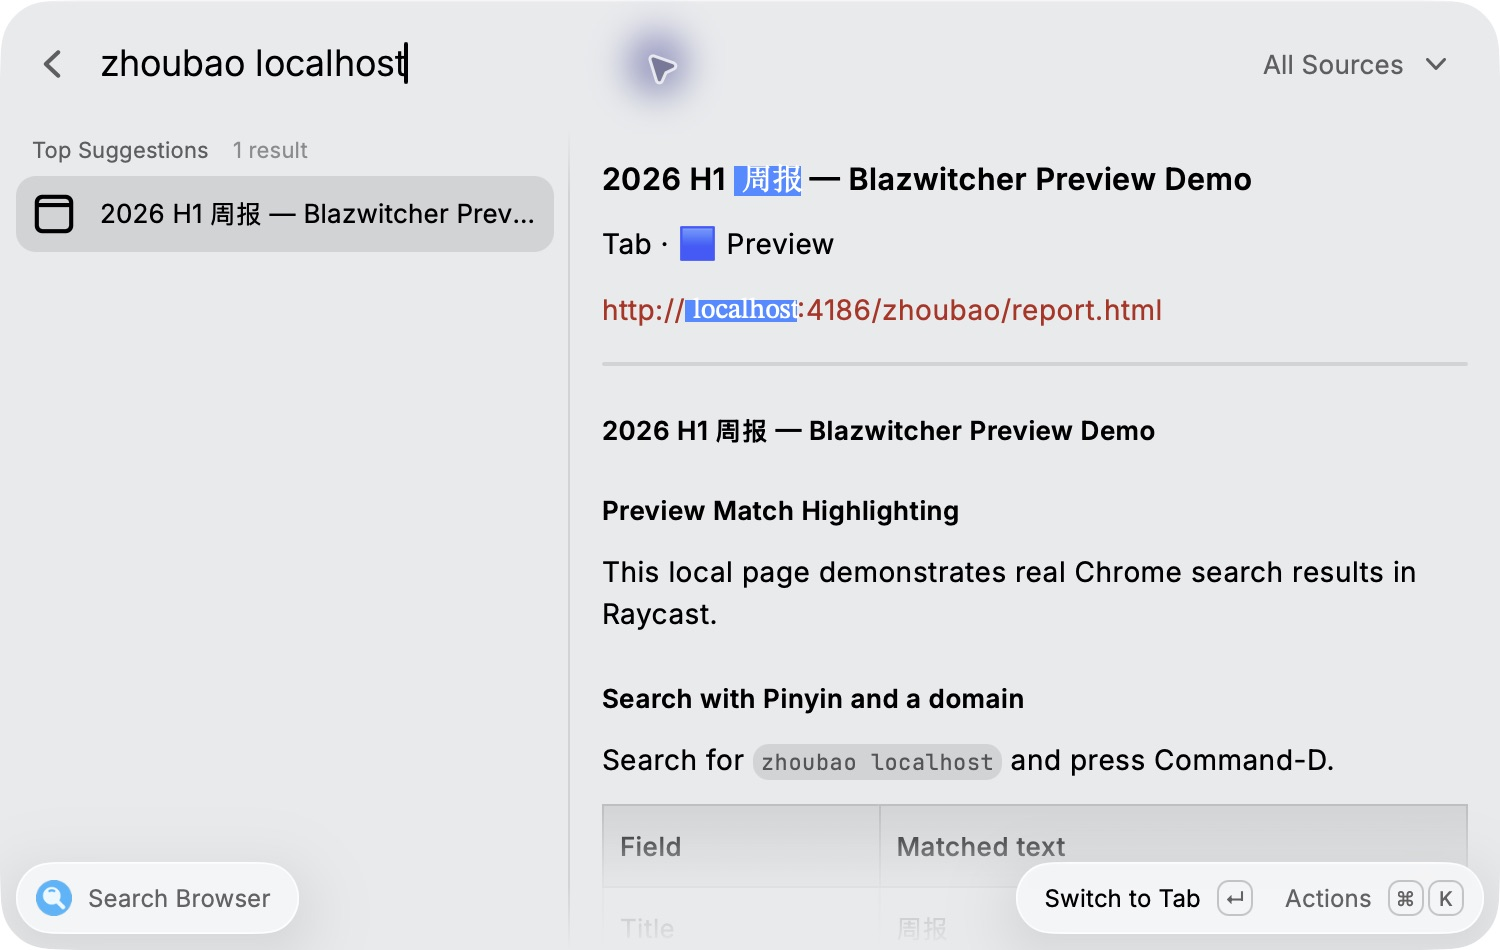
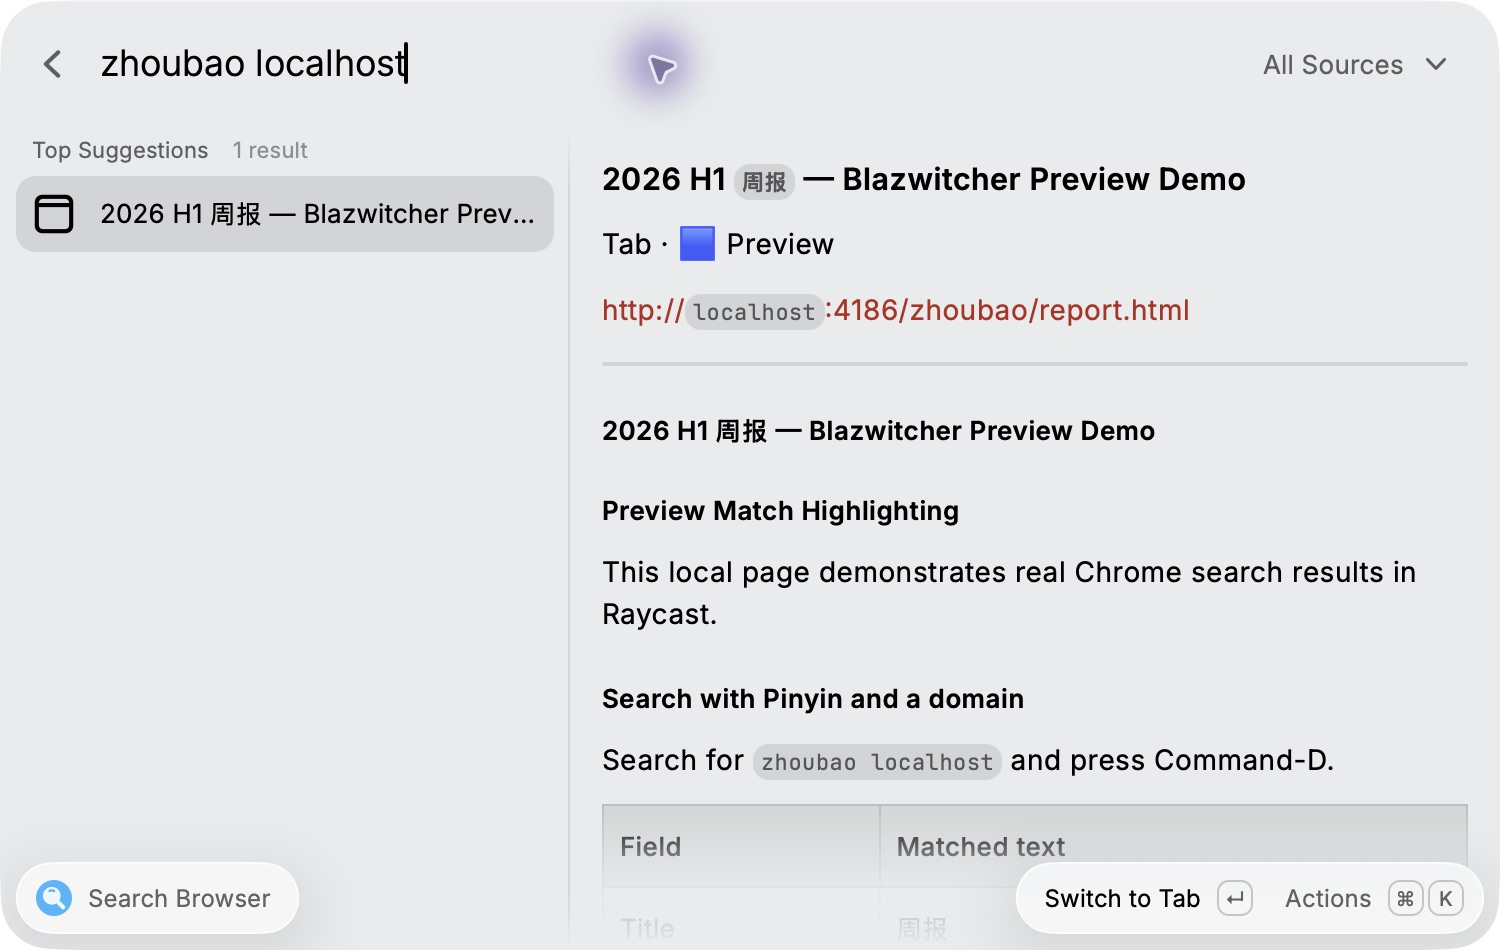
fix(preview): 🐛 use native padded match highlights

Changed region(s): [[0.4907, 0.1526, 0.828, 0.2137], [0.46, 0.3053, 0.7973, 0.3663]]

diff --git a/src/components/preview-markdown.ts b/src/components/preview-markdown.ts
@@ -47,16 +47,16 @@ function escapeMarkdown(value: string) {
   return value.replace(/&/g, "&amp;").replace(/([\\`*_{}[\]<>#+!|$])/g, "\\$1");
 }
 
-function escapeMathText(value: string) {
-  const escapes: Record<string, string> = {
-    "\\": "\\textbackslash{}",
-    "^": "\\textasciicircum{}",
-    "~": "\\textasciitilde{}",
-  };
-  return value.replace(
-    /[\\^~$%_#&{}]/g,
-    (character) => escapes[character] ?? `\\${character}`,
+function highlightedText(value: string) {
+  const text = value.replace(/\r\n|\r|\n/g, " ");
+  const longestFence = Math.max(
+    0,
+    ...Array.from(text.matchAll(/`+/g), (match) => match[0].length),
   );
+  const fence = "`".repeat(longestFence + 1);
+  const padding =
+    /^`|`$/.test(text) || (/^ .* $/.test(text) && /[^ ]/.test(text)) ? " " : "";
+  return `${fence}${padding}${text}${padding}${fence}`;
 }
 
 function matchedMarkdown(value: string, ranges: Range[], offset = 0) {
@@ -69,10 +69,8 @@ function matchedMarkdown(value: string, ranges: Range[], offset = 0) {
   const parts: string[] = [];
   for (const [start, end] of normalized) {
     parts.push(escapeMarkdown(text.slice(cursor, start)));
-    // 原生预览支持 LaTeX 颜色；仅给搜索引擎返回的原文区间着色。
-    parts.push(
-      `\\(\\colorbox{#268DFF}{\\raisebox{-0.2em}{\\textcolor{white}{\\textsf{${escapeMathText(text.slice(start, end + 1))}}}\\hspace{0.2em}}}\\)`,
-    );
+    // 原生行内 code 样式按真实文字尺寸提供圆角底色和四周留白。
+    parts.push(highlightedText(text.slice(start, end + 1)));
     cursor = end + 1;
   }
   parts.push(escapeMarkdown(text.slice(cursor)));

diff --git a/tests/component-selection.test.ts b/tests/component-selection.test.ts
@@ -210,16 +210,16 @@ test("expanded preview follows the selected result's title and URL matches", asy
   await act(async () => expand.props.onAction());
   const markdown = () =>
     ui.renderer.root.findByType(List.Item.Detail).props.markdown as string;
-  assert.ok(markdown().includes(String.raw`\textsf{fi}`));
-  assert.ok(markdown().includes(String.raw`\textsf{example}`));
+  assert.ok(markdown().includes("`fi`"));
+  assert.ok(markdown().includes("`example`"));
 
   await act(async () => ui.list().props.onSelectionChange("second"));
-  assert.ok(markdown().includes(String.raw`\textsf{sec}`));
-  assert.ok(!markdown().includes(String.raw`\textsf{fi}`));
+  assert.ok(markdown().includes("`sec`"));
+  assert.ok(!markdown().includes("`fi`"));
 
   page = results(["second"]);
   page.results[0].titleRanges = [[3, 5]];
   await ui.update();
-  assert.ok(markdown().includes(String.raw`\textsf{ond}`));
-  assert.ok(!markdown().includes(String.raw`\textsf{sec}`));
+  assert.ok(markdown().includes("`ond`"));
+  assert.ok(!markdown().includes("`sec`"));
 });

diff --git a/docs/验证记录.md b/docs/验证记录.md
@@ -3,10 +3,10 @@
 ## 2026-10-16 详情标题与 URL 命中高亮
 
 - 分支 `feat/preview-match-highlights` 基于 `master` 的 `006268157cb6a7ce4e7a4eb94d04cd7353ba8844`。`ResultDetail` 接收完整搜索结果，复用原始标题与 URL 的命中范围；标题清理不可见前缀时同步调整显示坐标。
-- 新增 7 项回归：拼音加域名、完整 URL 路径、不可见前缀、分散与相邻命中、emoji 坐标、空查询和 Markdown/TeX 转义，以及选中项和替换结果的高亮更新。先观察新增测试因缺少高亮而失败，再实现渲染。
-- Node.js 22.22.2 下完整检查通过：143 项测试、发行构建、TypeScript、Raycast 官方 lint、ESLint、Prettier。
-- 原生 Raycast 的 `Search Browser` 对真实 Chrome 本地演示页查询 `zhoubao localhost`，按 `⌘D` 观察到标题“周报”和完整 URL 的 `localhost` 蓝底白字，正文保持原有提取内容。截图为 `docs/screenshots/preview-match-highlights.png`。
-- 蓝底通过公开 Markdown LaTeX 支持渲染，命中的英文采用公式渲染字体。原生验收覆盖本机浅色主题，未据此宣称所有主题、窗口宽度或左侧列表均有相同高亮能力。
+- 新增 8 项回归：拼音加域名、完整 URL 路径、不可见前缀、分散与相邻命中、emoji 坐标、空查询和 Markdown 转义、反引号与空格，以及选中项和替换结果的高亮更新。先观察新增测试因缺少高亮而失败，再实现渲染。
+- Node.js 22.22.2 下完整检查通过：144 项测试、发行构建、TypeScript、Raycast 官方 lint、ESLint、Prettier。
+- 原生 Raycast 的 `Search Browser` 对真实 Chrome 本地演示页查询 `zhoubao localhost`，按 `⌘D` 观察到标题“周报”和完整 URL 的 `localhost` 原生灰底圆角包裹，四周有留白，正文保持原有提取内容。截图为 `docs/screenshots/preview-match-highlights.png`。
+- 初版 LaTeX 蓝底出现裁切和不均匀留白，已改为原生行内 code 样式，使用宿主的完整文字尺寸、圆角和 padding。原生验收覆盖本机浅色主题，未据此宣称所有主题、窗口宽度或左侧列表均有相同高亮能力。
 
 以下 2026-10-09 至 2026-10-10 的多字段迁移记录为提交与创建 PR 前的验证快照。
 

diff --git a/docs/Raycast列表高亮调查.md b/docs/Raycast列表高亮调查.md
@@ -2,7 +2,7 @@
 
 检查日期：2026-09-16。本机 Raycast `2.4.1.0`，公开 SDK `@raycast/api@2.4.1`，匹配库 `text-search-engine@1.5.3`。
 
-2026-10-16 补充：用户要求在 `⌘D` 详情的标题与 URL 中展示命中高亮，现通过公开 Markdown LaTeX 渲染实现，并保留真实搜索命中坐标。实际截图和限制见 [详情预览说明](详情预览试用说明.md#标题与-url-命中高亮)。以下结论仍针对左侧原生列表标题，历史“不引入详情预览”的方案已由后续需求更新。
+2026-10-16 补充：用户要求在 `⌘D` 详情的标题与 URL 中展示命中高亮，现通过公开 Markdown 原生行内 code 样式渲染实现，并保留真实搜索命中坐标。实际截图和限制见 [详情预览说明](详情预览试用说明.md#标题与-url-命中高亮)。以下结论仍针对左侧原生列表标题，历史“不引入详情预览”的方案已由后续需求更新。
 
 ## 内置 Clipboard History
 
